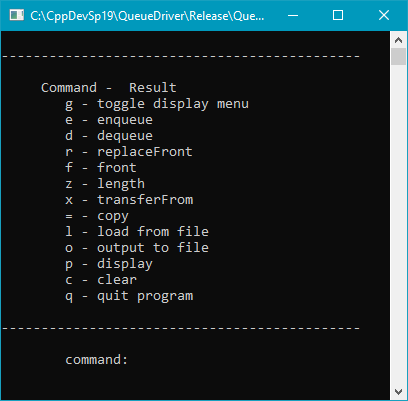
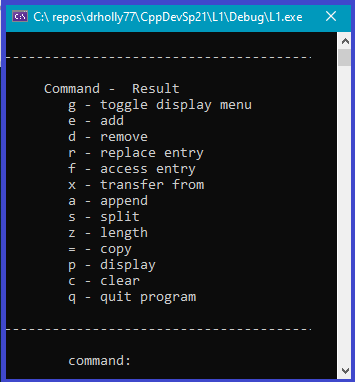
update of L1 assignment page

Changed region(s): [[0.0, 0.0, 1.0, 1.0]]

diff --git a/Assignments/2021/Lab1/L1.html b/Assignments/2021/Lab1/L1.html
@@ -63,8 +63,8 @@
 <p>&nbsp;</p>
 <h4>Overview of What To Do:</h4>
 <ul>
-  <li>The <em>driver.cpp</em> that you copied from the SeqDriver folder is a client program of the Queue1 component</li>
-  <li>Both client program and Queue1 component follow the Design by Contract approach where the client program is responsible for making sure that the precondition (requires clause) for the called operation (from the Queue component) is satisfied prior to making a call. Also, the Queue component's exported operations do not check to make sure that client as called correctly, they are implemented with the assumption that the client has called with all preconditions satisfied.</li>
+  <li>The <em>driver.cpp</em> that you copied from the SeqDriver folder is a client program of the Sequence4 component</li>
+  <li>Both client program and Sequence4 component follow the Design by Contract approach where the client program is responsible for making sure that the precondition (requires clause) for the called operation (from the Queue component) is satisfied prior to making a call. Also, the Queue component's exported operations do not check to make sure that client as called correctly, they are implemented with the assumption that the client has called with all preconditions satisfied.</li>
   <li>The client program in <em>driver.cpp</em> works with two Sequences, q1 and q2</li>
   <li>Your job is to modify each of the <em>driver.cpp</em> operations that currently work with q1 and q2 so that after modification it works with one variable which is an array of Sequences instead of two distinct queue variables</li>
 </ul>
@@ -80,36 +80,20 @@
 <p>Use the following example as a guide to creating an Array of Sequences</p>
 <div align="center">
   <center>
-    <table border="1" width="95%">
+    <table border="1" width="55%">
       <tr>
-        <td width="44%" valign="top"><p align="center"><b>Release Configuration Version</b></p></td>
-        <td width="54%" valign="top"><p align="center"><b>Debug Configuration Version</b></p></td>
-      </tr>
-      <tr>
-        <td width="44%" valign="top"><code><font size="1">// Array of Queue &lt;Text&gt;<br>
-          // Date: 3/20<br>
+        <td  valign="top"><code><font size="1">// Array of Sequence&lt;Text&gt;<br>
+          // Date: 3/21<br>
           <br>
-          #<b>include</b> &quot;Queue/Queue1.hpp&quot;<br>
+          #<b>include</b> &quot;Sequence/Sequence4.hpp&quot;<br>
           #<b>include</b> &quot;StaticArray/StaticArray1.hpp&quot;<br>
           <br>
           <strong>enum</strong> {lowerBound = 0, upperBound = 4, arraySize = 5};<br>
-          <b>typedef</b> Queue1 &lt;Text&gt; TextQueue;<br>
+          <b>typedef</b> Sequence4 &lt;Text&gt; TextSequence;<br>
           <br>
           //Create a class called QueueArray, which is indexed from 0..4<br>
-          <b>typedef</b> StaticArray1 &lt;TextQueue, lowerBound, upperBound&gt; ArrayOfSequences;</font></code></td>
-        <td width="54%" valign="top"><code><font size="1">// Array of Queue &lt;Text&gt;<br>
-          // Date: 3/20<br>
-          <br>
-          #<b>include</b> &quot;Queue/Queue1.hpp&quot;<br>
-          #<strong>include</strong> &quot;Queue/QueueChecking.hpp&quot;<br>
-          #<b>include</b> &quot;StaticArray/StaticArray1.hpp&quot;<br>
-          #<strong>include</strong> &quot;StaticArray/StaticArrayChecking.hpp&quot;<br>
-          <br>
-          <strong>enum</strong> {lowerBound = 0, upperBound = 4, arraySize = 5};<br>
-          <strong>typedef</strong> QueueChecking1&lt;Queue1, Text&gt;TextQueue;<br>
-          <br>
-          //Create checked QueueArray, which is indexed from 0..4<br>
-          <strong>typedef</strong> StaticArrayChecking1&lt;StaticArray1, TextQueue, lowerBound, upperBound&gt; ArrayOfSequences;</font></code></td>
+          <b>typedef</b> StaticArray1 &lt;TextSequence, lowerBound, upperBound&gt; ArrayOfSequences;</font></code></td>
+   
       </tr>
     </table>
   </center>
@@ -123,9 +107,9 @@
           argv[])<br>
           {<br>
           &nbsp;&nbsp; Boolean showMenu = (argc == 1);<br>
-          &nbsp;&nbsp; ArrayOfSequences aQ1;<br>
+          &nbsp;&nbsp; ArrayOfSequences aS1;<br>
           <br>
-          &nbsp;&nbsp; commandController (aQ1, showMenu);<br>
+          &nbsp;&nbsp; commandController (aS1, showMenu);<br>
           <br>
           &nbsp;&nbsp; wcout &lt;&lt; "end program" &lt;&lt; endl;<br>
           &nbsp;&nbsp; <b>return</b> 0;<br>
@@ -139,18 +123,20 @@
   <center>
     <table border="1" width="95%">
       <tr>
-        <td width="100%"><pre><strong>void</strong> doEnqueue(ArrayOfSequences&amp; aQ)
+        <td width="100%"><pre><strong>void</strong> doAdd (ArrayOfSequences&amp; aS)
 {
-	Integer index;
+	Integer i, p;
 	Text x;
 
-	wcout &lt;&lt; "Enqueue onto ";
-	index = getIndex(aQ);
+	wcout &lt;&lt; "Add to ";
+	i = getIndex(aS);
+	p = getPosition(aS[i].length());
 	getText(x);
-	aQ[index].enqueue(x);
-	wcout &lt;&lt; endl &lt;&lt; "q" &lt;&lt; index &lt;&lt; ".enqueue(x); executed." &lt;&lt; endl;
+	aS[i].add(p, x);
+
+	wcout &lt;&lt; endl &lt;&lt; "s[" &lt;&lt; i &lt;&lt; "].add(" &lt;&lt; p &lt;&lt; ", x); executed." &lt;&lt; endl;
 	wcout &lt;&lt; "x = " &lt;&lt; x &lt;&lt; endl;
-}	// doEnqueue</pre></td>
+}	// doAdd</pre></td>
       </tr>
     </table>
   </center>
@@ -164,7 +150,7 @@
   <li>In <em>getIndex</em> use StaticArray's <em>getBounds</em> operation to determine the number of
     locations in the array<br>
     <code>Integer lowerB, upperB;<br>
-    aQ.getBounds (lowerB, upperB);<br>
+    aS.getBounds (lowerB, upperB);<br>
     // use lowerB and upperB to tell the user what the bounds
     are&nbsp;<br>
     // and to check to make sure the user supplied a good index</code></li>
@@ -178,9 +164,9 @@
         <ol>
           <li>Run the program and type in commands at the command prompt to exercise each of the<em> </em>operations that were modified</li>
           <li>In the folder <em>CppDevSp21/SeqDriver</em> there is a sub-folder called <em>TestScripts</em> which contains .txt files. Each .txt contains a sequence of command interpreter commands for the original SeqDriver implementation that uses only two Sequences. If you utilize these test scripts, you'll need to first study them to understand what they are asking the command interpreter to do, and then modify them slightly to work with your command interpreter that uses an array of sequences. Instead of running and retyping commands, you can run your command interpreter and then copy and paste modified tests scripts into your command interpreter while its running. </li>
-          <li>Once you have your own set of .txt test scripts, you can place them in  either the <em>L1/Debug</em> folder or the <em>L1/Release</em> folder and run the command interpreter from a command prompt and use file redirection to feed your test scripts into your .exe. See the <em>Testing - With a Test Script</em> reference page.</li>
+          <li>You can place them in  either the <em>L1/Debug</em> folder or the <em>L1/Release</em> folder and run the command interpreter from a command prompt and use file redirection to feed your test scripts into your L1.exe. See the <em>Testing - With a Test Script</em> reference page.</li>
         </ol></td>
-      <td width="410" align="right"><img src="L1Running.png" width="408" height="401" alt=""/></td>
+      <td width="360" align="right"><img src="L1Running.png" width="355" height="382" alt=""/></td>
     </tr>
   </tbody>
 </table>
@@ -191,7 +177,7 @@
 <p>See the Grading Rubric associated with the L1 Moodle assignment</p>
 <p>&nbsp;</p>
 <h2>5. Submitting the Assignment for Grading</h2>
-<p>Upload your L1 <em>driver.cpp</em> file to the L1 Moodle assignment </p>
+<p>Use VS2019 to commit your L1 project your GitHub Education CSSE373 repo</p>
 <p>&nbsp;</p>
 </body>
 </html>
